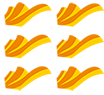
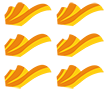
:art: Responsive cape

diff --git a/js/min/script-min.js b/js/min/script-min.js
@@ -1,1 +1,1 @@
-function scrollPage(){if(myScroll=$(document).scrollTop(),$(window).width()<=767){var e=$(".wrapper-popup").offset().top;myScroll>e?TweenMax.set($(".btn-close-popup"),{className:"+=fixed"}):TweenMax.set($(".btn-close-popup"),{className:"-=fixed"})}requestAnimFrame(scrollPage)}function animSprites(e,a,s,t,o){i=0;var n=new SteppedEase(t-1);for(spritesTab=new TimelineMax({repeat:-1}),i;o>i;i++)spritesTab.add(TweenMax.fromTo(e,.2,{backgroundPosition:"0 -"+s*i+"px"},{backgroundPosition:"-"+a*(t-1)+"px -"+s*i+"px",ease:n}))}function compteur(){var e=5347,a=5302,s=new Odometer({el:$(".compteur-participants")[0],theme:"train-station",value:a,format:""});s.render(),setInterval(function(){e>=a&&s.update(a++)},3e3)}function decompteur(){$(".decompteur-event").countdown({until:new Date(2016,4,25),compact:!0,layout:"<span class='digit-group'><span class='digit'>{d10}</span><span class='digit'>{d1}</span><span class='legend'>jours</span></span>:<span class='digit-group'><span class='digit'>{h10}</span><span class='digit'>{h1}</span><span class='legend'>heures</span></span>:<span class='digit-group'><span class='digit'>{m10}</span><span class='digit'>{m1}</span><span class='legend'>min</span></span>:<span class='digit-group'><span class='digit'>{s10}</span><span class='digit'>{s1}</span><span class='legend'>sec</span></span>",padZeroes:!0})}function posiPopup(){$(".popup").each(function(e){$(window).width()<=767?(TweenMax.set($(this),{"margin-top":"0px","margin-left":"0px"}),TweenMax.set($(this),{className:"+=no-transform"})):(TweenMax.set($(this),{"margin-top":-$(this).outerHeight()/2+"px","margin-left":-$(this).outerWidth()/2+"px"}),TweenMax.set($(this),{className:"+=no-transform"}))})}function posiSprites(){animSprites($("#glow"),635,200,5,5),$(window).width()>767?animSprites($("#cape"),96,58,2,3):$(window).width()>530?animSprites($("#cape"),72,44,2,3):animSprites($("#cape"),52,31,2,3)}function illus(){posiSprites();var e=new TimelineMax({});e.set($("#ensemble-crew"),{opacity:0,bottom:"70%"}).from($("#prix"),1.5,{scale:.1,alpha:0,ease:Elastic.easeInOut}).insert(TweenMax.to($("#ensemble-crew"),.7,{delay:1.7,alpha:1,bottom:"11%",ease:Back.easeOut}),TweenMax.to($("#prix"),.7,{delay:1.7,scaleX:1,scaleY:1,bottom:"7%",ease:Back.easeOut}),TweenMax.to($("#ombre-prix"),.3,{delay:2.2,opacity:1}),TweenMax.to($("#ombre-socle"),.2,{delay:1.7,className:"+=first-step"}))}var i,myScroll,spritesTab;window.requestAnimFrame=function(){return window.requestAnimationFrame||window.webkitRequestAnimationFrame||window.mozRequestAnimationFrame||window.oRequestAnimationFrame||window.msRequestAnimationFrame||function(e){window.setTimeout(e,1e3/60)}}(),$(function(){compteur(),decompteur(),scrollPage(),illus(),$("#etapes-event >li").mouseenter(function(){$("#etapes-event").removeClass("etape-1-active etape-2-active etape-3-active etape-4-active"),$(this).hasClass("etape-1")?$("#etapes-event").addClass("etape-1-active"):$(this).hasClass("etape-2")?$("#etapes-event").addClass("etape-2-active"):$(this).hasClass("etape-3")?$("#etapes-event").addClass("etape-3-active"):$(this).hasClass("etape-4")&&$("#etapes-event").addClass("etape-4-active")}),$(".title-etape").click(function(){var e=$("#etapes-event >li.open");if($(this).parent(".etape").hasClass("open"))$(".content-etape",e).slideToggle(300),e.removeClass("open");else{$(".content-etape",e).slideToggle(300),e.removeClass("open");var a=$(this).parent(".etape");$(".content-etape",a).slideToggle(300),a.addClass("open")}return!1}),$(".radio").click(function(){if(!$(this).hasClass("active")){var e=$(this).parent("fieldset");$(".radio.active",e).removeClass("active"),$(this).addClass("active")}}),$(".has-popup").click(function(){var e=$(this).data("ref-popup"),a=$(".wrapper-popup[data-popup='"+e+"']");return a.hasClass("open")||($(".wrapper-popup").removeClass("open"),a.addClass("open"),$(window).width()<=767&&$("html, body").stop().animate({scrollTop:a.offset().top},800)),posiPopup(),!1}),$(".btn-close-popup").click(function(){return $(this).parents(".wrapper-popup").removeClass("open"),!1}),$(document).mouseup(function(e){if($(window).width()>767){var a=$(".wrapper-popup.open .popup");a.is(e.target)||0!=a.has(e.target).length||$(".wrapper-popup.open").removeClass("open")}});var e=$("#quantite");e.data("oldVal",e.val()),e.bind("propertychange change click keyup input paste",function(a){e.data("oldVal")!=e.val()&&(e.data("oldVal",e.val()),$(this)[0].setCustomValidity(e.val()>=500?"":"Minimum 500 litres"))}),new Clipboard(".btn-clipboard"),$(document).delegate("#partage-email .btn-plus","click",function(){return $("#partage-email ul").append('<li><input type="email" placeholder="Saisir l\'email de votre choix"><button class="btn-plus"></button></li>'),posiPopup(),!1}),$("#btn-partage-email").click(function(){return $(this).closest(".popup").addClass("email-open"),posiPopup(),!1}),$("#btn-close-partage-email").click(function(){return $(this).closest(".popup").removeClass("email-open"),posiPopup(),!1})}),$(window).load(function(){posiPopup()});var h=$(window).height(),w=$(window).width();$(window).resize(function(){posiPopup();var e=$(window).height(),a=$(window).width();a!=w&&($(".content-etape").attr("style",""),$("#etapes-event >li.open").removeClass("open"),$("#etapes-event >li").first().addClass("open")),h=e,w=a}),$(document).on("scroll",function(){myScroll=$(document).scrollTop(),19>myScroll?($("#prix").removeClass("break"),TweenMax.to($("#prix"),.3,{bottom:"7%",scaleX:"1",scaleY:"1"}),TweenMax.to($("#ombre-prix"),.2,{scaleX:"1"}),TweenMax.to($("#ensemble-crew"),1,{bottom:"11%",ease:Elastic.easeOut.config(2,.5)}),TweenMax.to($("#ombre-socle"),.2,{className:"+=first-step"}),TweenMax.to($("#ombre-socle"),.2,{className:"-=second-step"}),TweenMax.to($("#ombre-socle"),.2,{className:"-=third-step"})):myScroll>=20&&59>myScroll?($("#prix").addClass("break"),TweenMax.to($("#prix"),.3,{bottom:"7%",scaleX:"1",scaleY:"1"}),TweenMax.to($("#ombre-prix"),.2,{scaleX:"1"}),TweenMax.fromTo($("#ensemble-crew"),.3,{bottom:"10%"},{bottom:"11%",ease:Elastic.easeOut.config(2,.5)}),TweenMax.to($("#ombre-socle"),.2,{className:"+=first-step"}),TweenMax.to($("#ombre-socle"),.2,{className:"-=second-step"}),TweenMax.to($("#ombre-socle"),.2,{className:"-=third-step"})):myScroll>=60&&249>myScroll?(TweenMax.to($("#prix"),.3,{bottom:"5%",scaleX:"0.95",scaleY:"0.75"}),TweenMax.to($("#ombre-prix"),.2,{scaleX:"0.95"}),TweenMax.to($("#ensemble-crew"),1,{bottom:"7%",ease:Elastic.easeOut.config(2,.5)}),$("#prix").addClass("break"),TweenMax.to($("#ombre-socle"),.2,{className:"-=first-step"}),TweenMax.to($("#ombre-socle"),.2,{className:"+=second-step"}),TweenMax.to($("#ombre-socle"),.2,{className:"-=third-step"})):myScroll>=250&&600>myScroll&&($("#prix").addClass("break"),TweenMax.to($("#prix"),.6,{bottom:"3%",scaleX:"0.9",scaleY:"0.4",ease:Elastic.easeOut.config(2,.5)}),TweenMax.to($("#ombre-prix"),.2,{scaleX:"0.9"}),TweenMax.to($("#ensemble-crew"),1,{bottom:"3%",ease:Elastic.easeOut}),TweenMax.to($("#ombre-socle"),.2,{className:"-=first-step"}),TweenMax.to($("#ombre-socle"),.2,{className:"-=second-step"}),TweenMax.to($("#ombre-socle"),.2,{className:"+=third-step"}))});
+function scrollPage(){if(myScroll=$(document).scrollTop(),$(window).width()<=767){var e=$(".wrapper-popup").offset().top;myScroll>e?TweenMax.set($(".btn-close-popup"),{className:"+=fixed"}):TweenMax.set($(".btn-close-popup"),{className:"-=fixed"})}requestAnimFrame(scrollPage)}function animSprites(e,a,s,t,o){i=0;var n=new SteppedEase(t-1);for(spritesTab=new TimelineMax({repeat:-1}),i;o>i;i++)spritesTab.add(TweenMax.fromTo(e,.2,{backgroundPosition:"0 -"+s*i+"px"},{backgroundPosition:"-"+a*(t-1)+"px -"+s*i+"px",ease:n}))}function compteur(){var e=5347,a=5302,s=new Odometer({el:$(".compteur-participants")[0],theme:"train-station",value:a,format:""});s.render(),setInterval(function(){e>=a&&s.update(a++)},3e3)}function decompteur(){$(".decompteur-event").countdown({until:new Date(2016,4,25),compact:!0,layout:"<span class='digit-group'><span class='digit'>{d10}</span><span class='digit'>{d1}</span><span class='legend'>jours</span></span>:<span class='digit-group'><span class='digit'>{h10}</span><span class='digit'>{h1}</span><span class='legend'>heures</span></span>:<span class='digit-group'><span class='digit'>{m10}</span><span class='digit'>{m1}</span><span class='legend'>min</span></span>:<span class='digit-group'><span class='digit'>{s10}</span><span class='digit'>{s1}</span><span class='legend'>sec</span></span>",padZeroes:!0})}function posiPopup(){$(".popup").each(function(e){$(window).width()<=767?(TweenMax.set($(this),{"margin-top":"0px","margin-left":"0px"}),TweenMax.set($(this),{className:"+=no-transform"})):(TweenMax.set($(this),{"margin-top":-$(this).outerHeight()/2+"px","margin-left":-$(this).outerWidth()/2+"px"}),TweenMax.set($(this),{className:"+=no-transform"}))})}function posiSprites(){animSprites($("#glow"),635,200,5,5),$(window).width()>767?animSprites($("#cape"),96,58,2,3):$(window).width()>530?animSprites($("#cape"),72,44,2,3):$(window).width()>374?animSprites($("#cape"),52,31,2,3):animSprites($("#cape"),44,27,2,3)}function illus(){posiSprites();var e=new TimelineMax({});e.set($("#ensemble-crew"),{opacity:0,bottom:"70%"}).from($("#prix"),1.5,{scale:.1,alpha:0,ease:Elastic.easeInOut}).insert(TweenMax.to($("#ensemble-crew"),.7,{delay:1.7,alpha:1,bottom:"11%",ease:Back.easeOut}),TweenMax.to($("#prix"),.7,{delay:1.7,scaleX:1,scaleY:1,bottom:"7%",ease:Back.easeOut}),TweenMax.to($("#ombre-prix"),.3,{delay:2.2,opacity:1}),TweenMax.to($("#ombre-socle"),.2,{delay:1.7,className:"+=first-step"}))}var i,myScroll,spritesTab;window.requestAnimFrame=function(){return window.requestAnimationFrame||window.webkitRequestAnimationFrame||window.mozRequestAnimationFrame||window.oRequestAnimationFrame||window.msRequestAnimationFrame||function(e){window.setTimeout(e,1e3/60)}}(),$(function(){compteur(),decompteur(),scrollPage(),illus(),$("#etapes-event >li").mouseenter(function(){$("#etapes-event").removeClass("etape-1-active etape-2-active etape-3-active etape-4-active"),$(this).hasClass("etape-1")?$("#etapes-event").addClass("etape-1-active"):$(this).hasClass("etape-2")?$("#etapes-event").addClass("etape-2-active"):$(this).hasClass("etape-3")?$("#etapes-event").addClass("etape-3-active"):$(this).hasClass("etape-4")&&$("#etapes-event").addClass("etape-4-active")}),$(".title-etape").click(function(){var e=$("#etapes-event >li.open");if($(this).parent(".etape").hasClass("open"))$(".content-etape",e).slideToggle(300),e.removeClass("open");else{$(".content-etape",e).slideToggle(300),e.removeClass("open");var a=$(this).parent(".etape");$(".content-etape",a).slideToggle(300),a.addClass("open")}return!1}),$(".radio").click(function(){if(!$(this).hasClass("active")){var e=$(this).parent("fieldset");$(".radio.active",e).removeClass("active"),$(this).addClass("active")}}),$(".has-popup").click(function(){var e=$(this).data("ref-popup"),a=$(".wrapper-popup[data-popup='"+e+"']");return a.hasClass("open")||($(".wrapper-popup").removeClass("open"),a.addClass("open"),$(window).width()<=767&&$("html, body").stop().animate({scrollTop:a.offset().top},800)),posiPopup(),!1}),$(".btn-close-popup").click(function(){return $(this).parents(".wrapper-popup").removeClass("open"),!1}),$(document).mouseup(function(e){if($(window).width()>767){var a=$(".wrapper-popup.open .popup");a.is(e.target)||0!=a.has(e.target).length||$(".wrapper-popup.open").removeClass("open")}});var e=$("#quantite");e.data("oldVal",e.val()),e.bind("propertychange change click keyup input paste",function(a){e.data("oldVal")!=e.val()&&(e.data("oldVal",e.val()),$(this)[0].setCustomValidity(e.val()>=500?"":"Minimum 500 litres"))}),new Clipboard(".btn-clipboard"),$(document).delegate("#partage-email .btn-plus","click",function(){return $("#partage-email ul").append('<li><input type="email" placeholder="Saisir l\'email de votre choix"><button class="btn-plus"></button></li>'),posiPopup(),!1}),$("#btn-partage-email").click(function(){return $(this).closest(".popup").addClass("email-open"),posiPopup(),!1}),$("#btn-close-partage-email").click(function(){return $(this).closest(".popup").removeClass("email-open"),posiPopup(),!1})}),$(window).load(function(){posiPopup()});var h=$(window).height(),w=$(window).width();$(window).resize(function(){posiPopup();var e=$(window).height(),a=$(window).width();a!=w&&($(".content-etape").attr("style",""),$("#etapes-event >li.open").removeClass("open"),$("#etapes-event >li").first().addClass("open")),h=e,w=a}),$(document).on("scroll",function(){myScroll=$(document).scrollTop(),19>myScroll?($("#prix").removeClass("break"),TweenMax.to($("#prix"),.3,{bottom:"7%",scaleX:"1",scaleY:"1"}),TweenMax.to($("#ombre-prix"),.2,{scaleX:"1"}),TweenMax.to($("#ensemble-crew"),1,{bottom:"11%",ease:Elastic.easeOut.config(2,.5)}),TweenMax.to($("#ombre-socle"),.2,{className:"+=first-step"}),TweenMax.to($("#ombre-socle"),.2,{className:"-=second-step"}),TweenMax.to($("#ombre-socle"),.2,{className:"-=third-step"})):myScroll>=20&&59>myScroll?($("#prix").addClass("break"),TweenMax.to($("#prix"),.3,{bottom:"7%",scaleX:"1",scaleY:"1"}),TweenMax.to($("#ombre-prix"),.2,{scaleX:"1"}),TweenMax.fromTo($("#ensemble-crew"),.3,{bottom:"10%"},{bottom:"11%",ease:Elastic.easeOut.config(2,.5)}),TweenMax.to($("#ombre-socle"),.2,{className:"+=first-step"}),TweenMax.to($("#ombre-socle"),.2,{className:"-=second-step"}),TweenMax.to($("#ombre-socle"),.2,{className:"-=third-step"})):myScroll>=60&&249>myScroll?(TweenMax.to($("#prix"),.3,{bottom:"5%",scaleX:"0.95",scaleY:"0.75"}),TweenMax.to($("#ombre-prix"),.2,{scaleX:"0.95"}),TweenMax.to($("#ensemble-crew"),1,{bottom:"7%",ease:Elastic.easeOut.config(2,.5)}),$("#prix").addClass("break"),TweenMax.to($("#ombre-socle"),.2,{className:"-=first-step"}),TweenMax.to($("#ombre-socle"),.2,{className:"+=second-step"}),TweenMax.to($("#ombre-socle"),.2,{className:"-=third-step"})):myScroll>=250&&600>myScroll&&($("#prix").addClass("break"),TweenMax.to($("#prix"),.6,{bottom:"3%",scaleX:"0.9",scaleY:"0.4",ease:Elastic.easeOut.config(2,.5)}),TweenMax.to($("#ombre-prix"),.2,{scaleX:"0.9"}),TweenMax.to($("#ensemble-crew"),1,{bottom:"3%",ease:Elastic.easeOut}),TweenMax.to($("#ombre-socle"),.2,{className:"-=first-step"}),TweenMax.to($("#ombre-socle"),.2,{className:"-=second-step"}),TweenMax.to($("#ombre-socle"),.2,{className:"+=third-step"}))});

diff --git a/less/mediaqueries.less b/less/mediaqueries.less
@@ -889,7 +889,7 @@
                 width: 52px;
                 height: 31px;
                 background-image: url("../layoutImg/illus/anim-cape-r2.png");
-                bottom: 162px;
+                bottom: 160px;
                 margin-left: 28px;
             }
         }
@@ -1013,6 +1013,13 @@
         }
         #personnages{
             background-size: 360px 155px;
+            #cape{
+                width: 44px;
+                height: 27px;
+                background-image: url("../layoutImg/illus/anim-cape-r3.png");
+                bottom: 146px;
+                margin-left: 23px;
+            }
         }
     }
     /* @end */

diff --git a/css/style.css b/css/style.css
@@ -2507,7 +2507,7 @@ input[type="tel"]#lien-partage {
     width: 52px;
     height: 31px;
     background-image: url("../layoutImg/illus/anim-cape-r2.png");
-    bottom: 162px;
+    bottom: 160px;
     margin-left: 28px;
   }
   #wrapper-illus #prix {
@@ -2604,6 +2604,13 @@ input[type="tel"]#lien-partage {
   }
   #wrapper-illus #personnages {
     background-size: 360px 155px;
+  }
+  #wrapper-illus #personnages #cape {
+    width: 44px;
+    height: 27px;
+    background-image: url("../layoutImg/illus/anim-cape-r3.png");
+    bottom: 146px;
+    margin-left: 23px;
   }
   /* @end */
 }

diff --git a/js/script.js b/js/script.js
@@ -88,8 +88,10 @@ function posiSprites(){
 		animSprites($("#cape"), 96, 58, 2, 3);
 	}else if($(window).width()>530){
 		animSprites($("#cape"), 72, 44, 2, 3);
-	}else{
+	}else if($(window).width()>374){
 		animSprites($("#cape"), 52, 31, 2, 3);
+	}else{
+		animSprites($("#cape"), 44, 27, 2, 3);
 	}
 }
 
